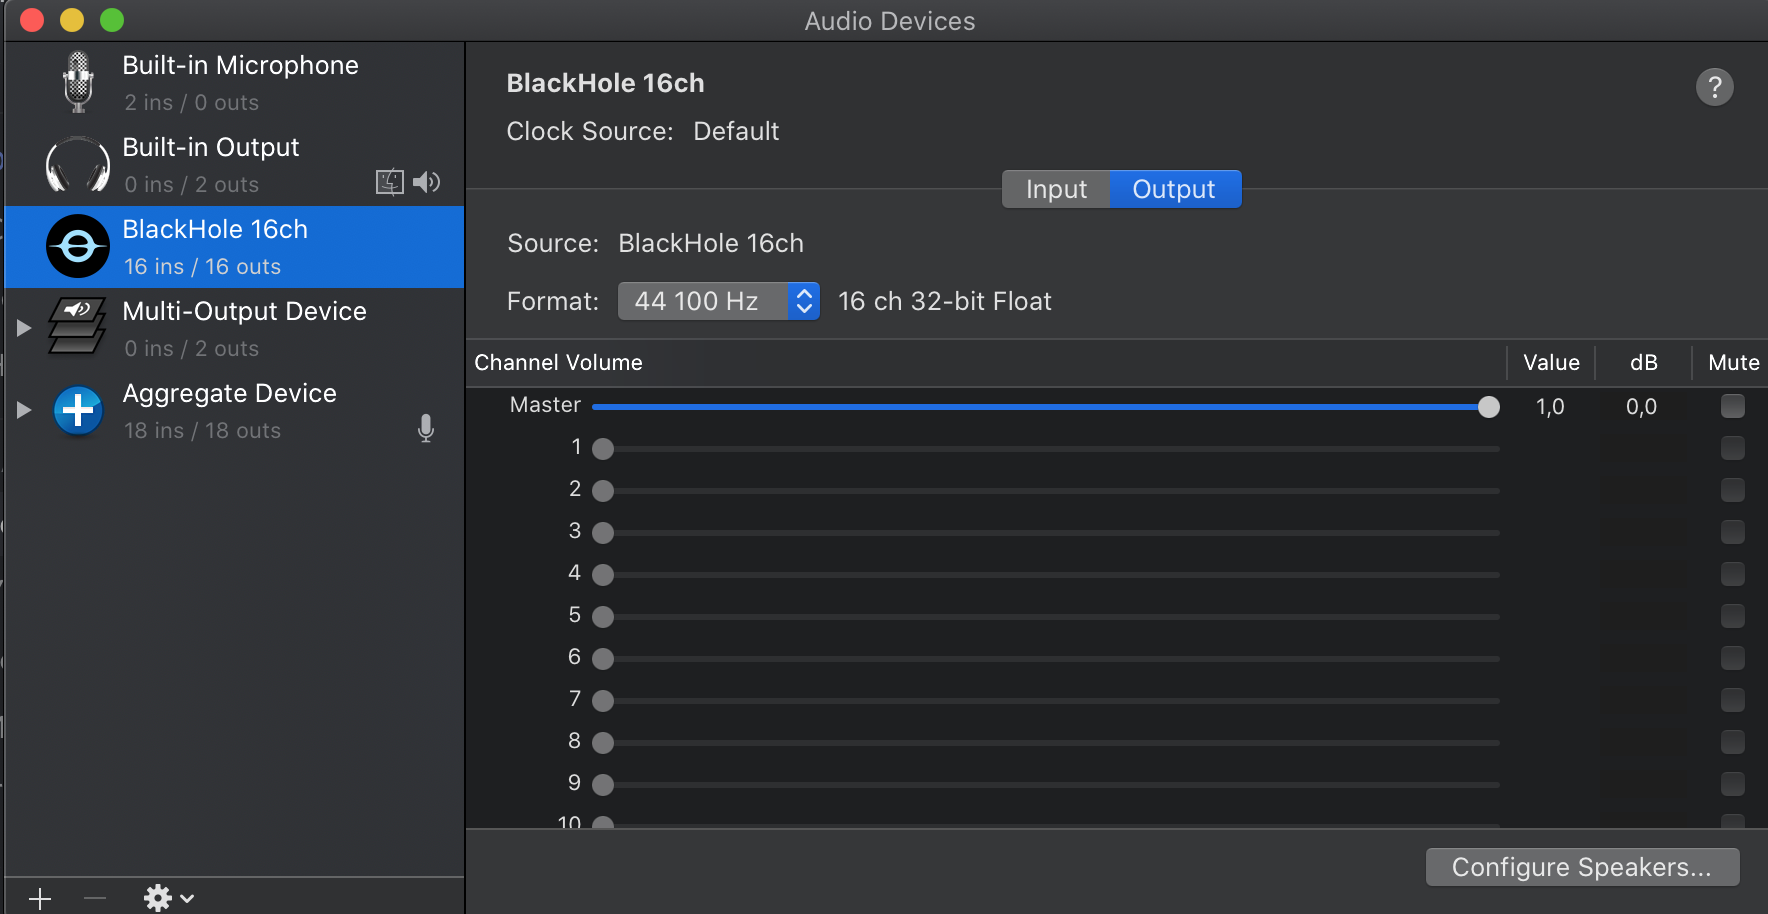
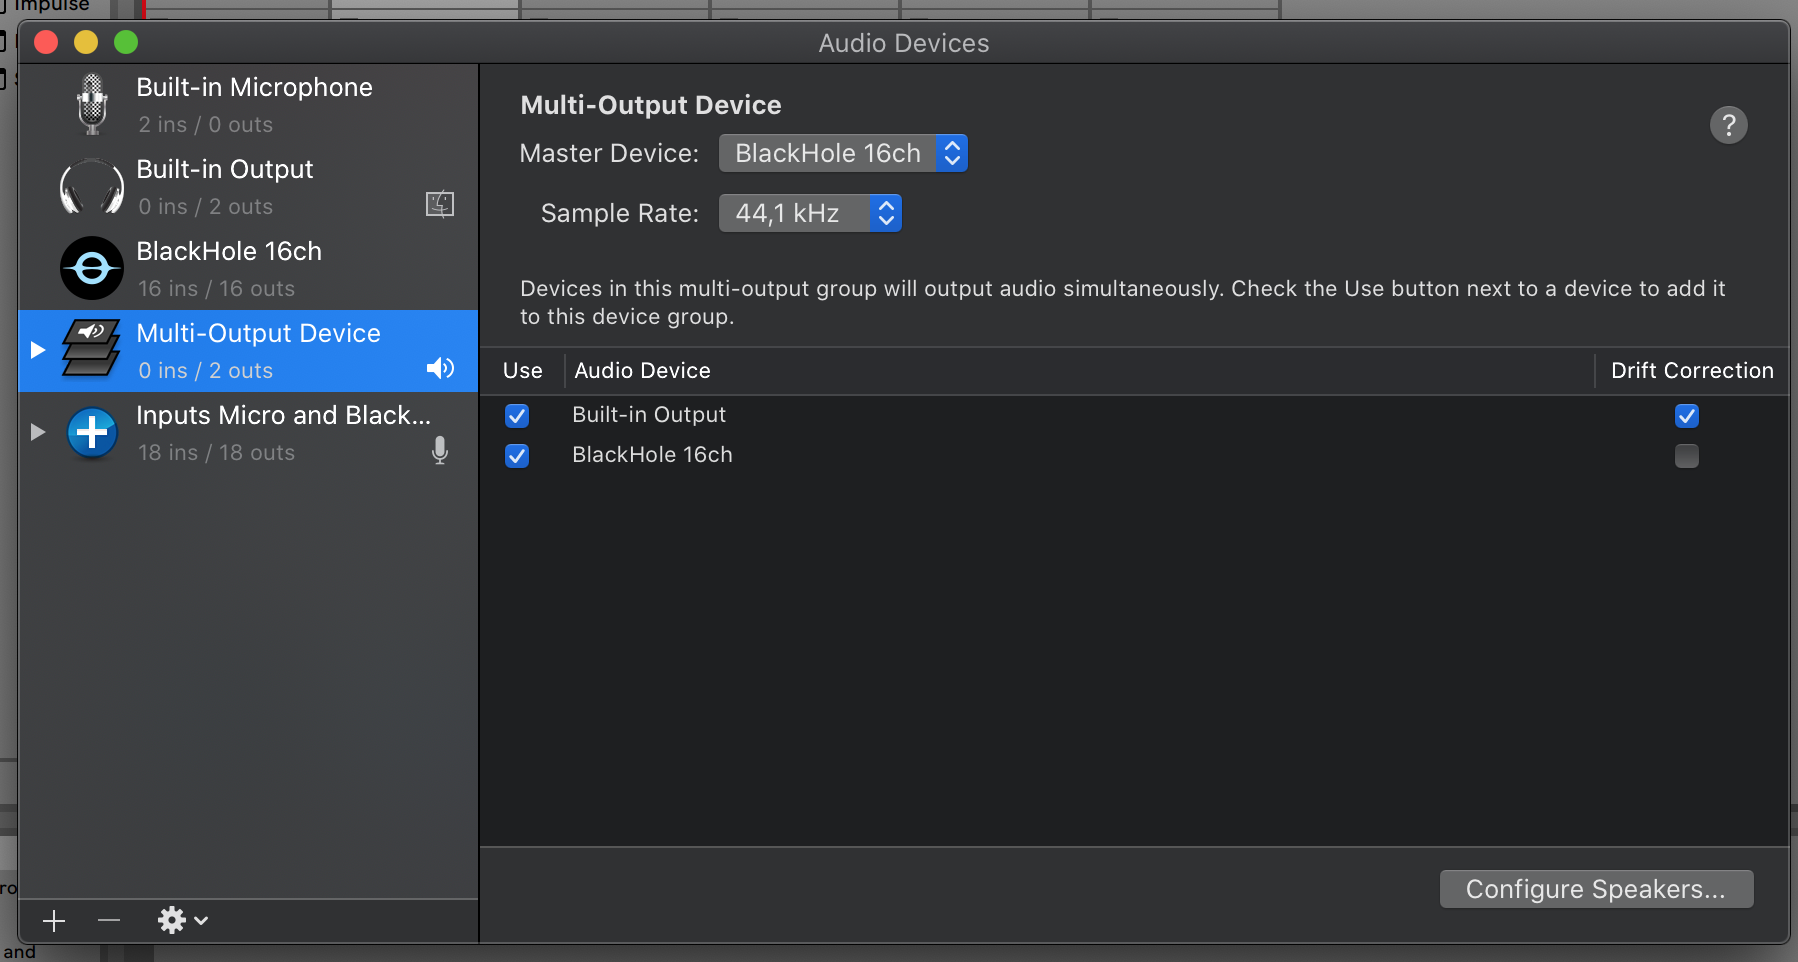
fix instruction

diff --git a/_posts/2020-5-10-Ableton-Discord-MacOS.md b/_posts/2020-5-10-Ableton-Discord-MacOS.md
@@ -3,7 +3,7 @@ layout: post
 title: "Как играть MIDI и одновременно петь в Discord с Ableton Live 10 на MacOS"
 ---
 
-Подойдёт тем счастливым владельцам техники Apple, имеющим MIDI-клавиатуру и MacOS Catalina и выше.
+Подойдёт тем счастливым владельцам техники Apple, имеющим MIDI-клавиатуру и MacOS Catalina (и выше).  
 
 ## Софт
 
@@ -25,19 +25,15 @@ brew cask install blackhole
 
 ![2]({{ site.baseurl }}http://nastradamus.github.io/images/ableton_discord/2.png "2")
 
-![4]({{ site.baseurl }}http://nastradamus.github.io/images/ableton_discord/3.png "3")
+![3]({{ site.baseurl }}http://nastradamus.github.io/images/ableton_discord/3.png "3")
 
-![5]({{ site.baseurl }}http://nastradamus.github.io/images/ableton_discord/4.png "4")
+![4]({{ site.baseurl }}http://nastradamus.github.io/images/ableton_discord/4.png "4")
 
 ![5]({{ site.baseurl }}http://nastradamus.github.io/images/ableton_discord/5.png "5")
 
 ![6]({{ site.baseurl }}http://nastradamus.github.io/images/ableton_discord/6.png "6")
 
-![7]({{ site.baseurl }}http://nastradamus.github.io/images/ableton_discord/7_0.png "7_0")
-
-![7]({{ site.baseurl }}http://nastradamus.github.io/images/ableton_discord/7_1.png "7_1")
-
-![7]({{ site.baseurl }}http://nastradamus.github.io/images/ableton_discord/7_2.png "7_2")
+![7]({{ site.baseurl }}http://nastradamus.github.io/images/ableton_discord/7.png "7")
 
 ![8]({{ site.baseurl }}http://nastradamus.github.io/images/ableton_discord/8.png "8")
 
@@ -45,6 +41,19 @@ brew cask install blackhole
 
 ![10]({{ site.baseurl }}http://nastradamus.github.io/images/ableton_discord/10.png "10")
 
+![11]({{ site.baseurl }}http://nastradamus.github.io/images/ableton_discord/11.png "11")
 
-* На этом настройка закончена
+![12]({{ site.baseurl }}http://nastradamus.github.io/images/ableton_discord/12.png "12")
+
+![13]({{ site.baseurl }}http://nastradamus.github.io/images/ableton_discord/13.png "13")
+
+![14]({{ site.baseurl }}http://nastradamus.github.io/images/ableton_discord/14.png "14")
+
+![15]({{ site.baseurl }}http://nastradamus.github.io/images/ableton_discord/15.png "15")
+
+На этом настройка закончена.
+
+Единственное что плохо - вы будете слышать свой голос.  Рекомендуется поставить в Ableton Live буфер 64-128KiB.  
+
+Надеюсь я не зря убил всё воскресенье чтобы разобраться с этим и данная заметка пригодится кому-то еще.  
 
